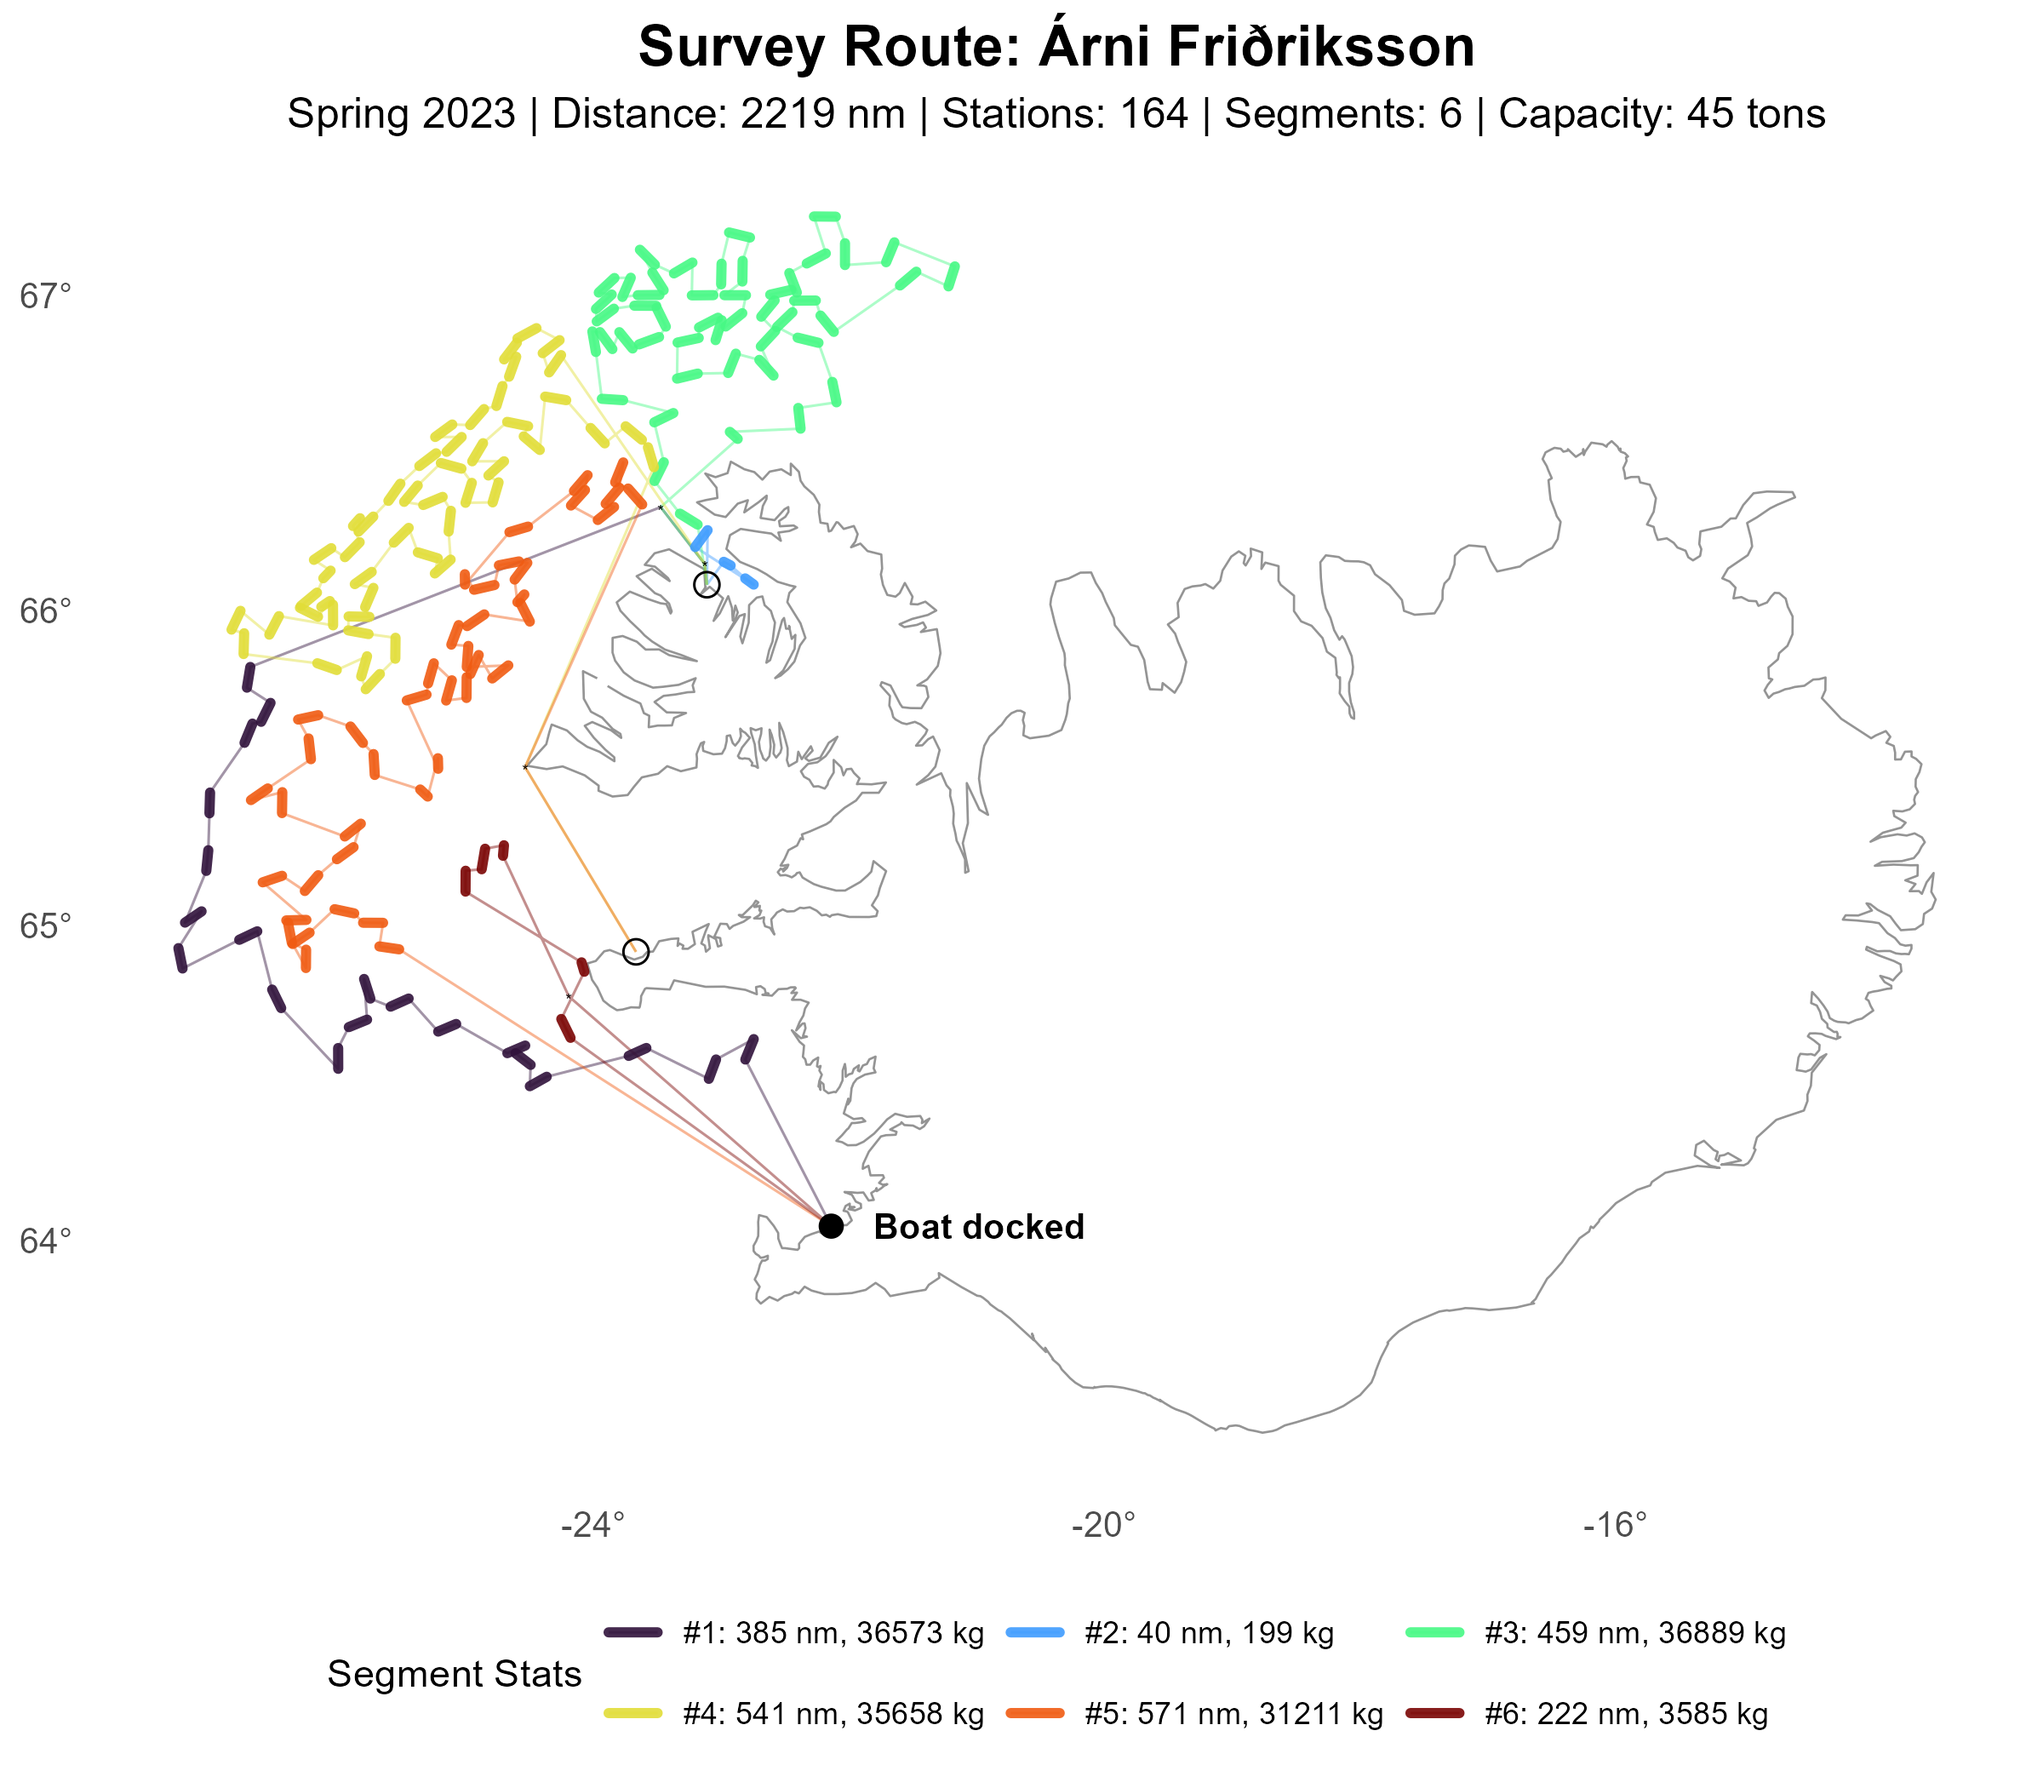
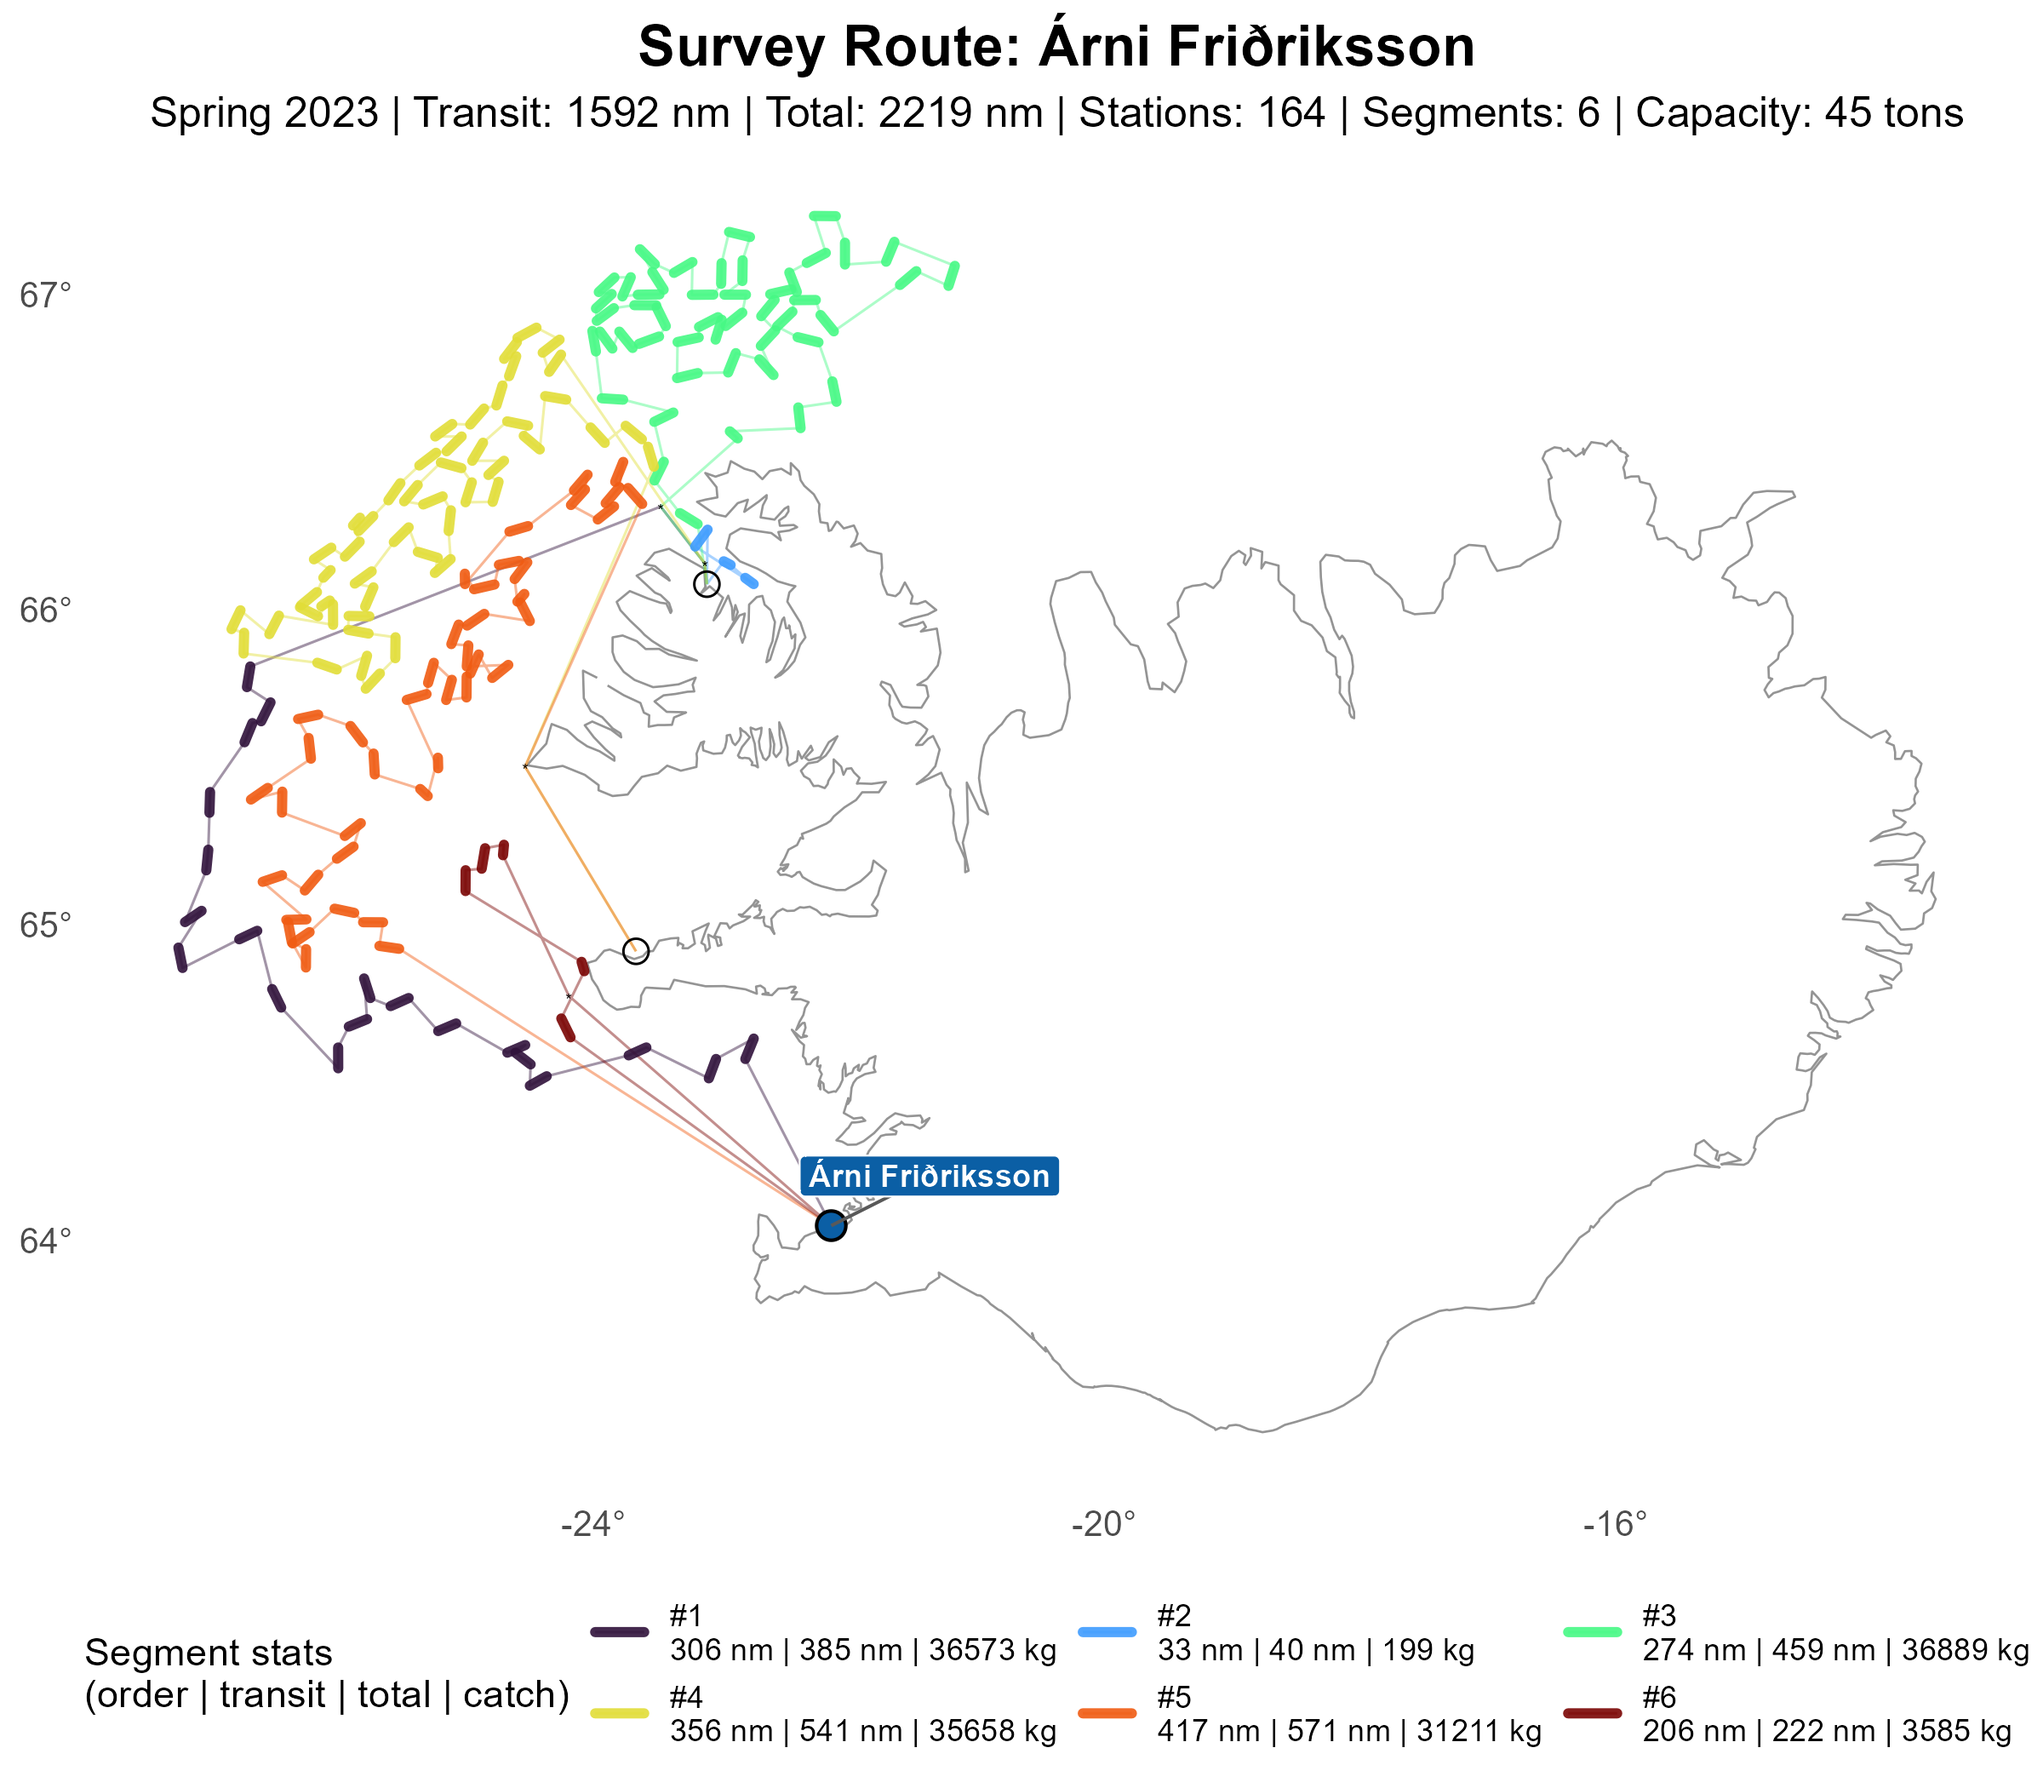
Update output filename for multi-vessel route plotting to `multivessel.png` in script and Makefile.

diff --git a/sol/survey/README.md b/sol/survey/README.md
@@ -4,6 +4,9 @@ This folder contains the exported historical survey routes:
 
 - `boat1.json` to `boat4.json`
 - `boat1.png` to `boat4.png`
+- `boat1.log` to `boat4.log`
+- `multivessel.png`
+- `multivessel.log`
 
 The original ordered survey input is:
 
@@ -11,7 +14,7 @@ The original ordered survey input is:
 
 The database used to resolve `boat_id`, `station_id`, and `port_id` is:
 
-- `dat/gsp_data.db`
+- `dat/gsp.db`
 
 The JSON files here are produced by:
 
@@ -22,7 +25,7 @@ make -C src survey
 That workflow:
 
 1. reads `dat/survey2023spring.dat`
-2. rebuilds the `survey` table from existing boats, stations, and ports already in `dat/gsp_data.db`
+2. rebuilds the `survey` table from existing boats, stations, and ports already in `dat/gsp.db`
 3. exports `boat*.json`
 
 To regenerate a PNG from one of the JSON files:
@@ -31,18 +34,26 @@ To regenerate a PNG from one of the JSON files:
 Rscript R/plot_single_vessel_route.R sol/survey/boat1.json
 ```
 
+That command also writes a sidecar summary log next to the PNG.
+
 Examples:
 
 ```bash
 Rscript R/plot_single_vessel_route.R sol/survey/boat2.json
 Rscript R/plot_single_vessel_route.R sol/survey/boat3.json
 Rscript R/plot_single_vessel_route.R sol/survey/boat4.json
-Rscript R/plot_multi_vessel_route.R "sol/survey/boat*.json" sol/survey/routes_combined.png dat/gsp.db
+Rscript R/plot_multi_vessel_route.R "sol/survey/boat*.json" sol/survey/multivessel.png dat/gsp.db
 ```
 
 The corresponding PNG is written next to the JSON file, for example:
 
 - `sol/survey/boat1.png`
+- `sol/survey/boat1.log`
+
+The combined survey plot writes:
+
+- `sol/survey/multivessel.png`
+- `sol/survey/multivessel.log`
 
 -----
 
@@ -57,54 +68,56 @@ The corresponding PNG is written next to the JSON file, for example:
 
 ### Boat 1: Bjarni Sæmundsson
 
-|   Segment |  Length | Stations |     Catch | Distance (nm) |
-|----------:|--------:|---------:|----------:|--------------:|
-|         1 |      38 |       36 |     24176 |        585.60 |
-|         2 |      20 |       18 |     10744 |        218.42 |
-|         3 |      44 |       42 |     15896 |        633.66 |
-|         4 |      17 |       15 |     13065 |        310.19 |
-| **Total** | **119** |  **111** | **63881** |   **1747.87** |
+|   Segment |  Length | Stations |     Catch | Transit (nm) | Total (nm) |
+|----------:|--------:|---------:|----------:|-------------:|-----------:|
+|         1 |      38 |       36 |     24176 |       444.57 |     585.60 |
+|         2 |      20 |       18 |     10744 |       147.05 |     218.42 |
+|         3 |      44 |       42 |     15896 |       480.17 |     633.66 |
+|         4 |      17 |       15 |     13065 |       257.82 |     310.19 |
+| **Total** | **119** |  **111** | **63881** |  **1329.60** | **1747.87** |
 
 ### Boat 2: Árni Friðriksson
 
-|   Segment |  Length | Stations |      Catch | Distance (nm) |
-|----------:|--------:|---------:|-----------:|--------------:|
-|         1 |      22 |       20 |      36573 |        384.70 |
-|         2 |       5 |        3 |        199 |         40.18 |
-|         3 |      49 |       47 |      36889 |        458.88 |
-|         4 |      50 |       48 |      35658 |        541.47 |
-|         5 |      43 |       41 |      31211 |        571.49 |
-|         6 |       7 |        5 |       3585 |        222.24 |
-| **Total** | **176** |  **164** | **144115** |   **2218.98** |
+|   Segment |  Length | Stations |      Catch | Transit (nm) | Total (nm) |
+|----------:|--------:|---------:|-----------:|-------------:|-----------:|
+|         1 |      22 |       20 |      36573 |       305.72 |     384.70 |
+|         2 |       5 |        3 |        199 |        32.71 |      40.18 |
+|         3 |      49 |       47 |      36889 |       273.85 |     458.88 |
+|         4 |      50 |       48 |      35658 |       356.36 |     541.47 |
+|         5 |      43 |       41 |      31211 |       416.85 |     571.49 |
+|         6 |       7 |        5 |       3585 |       206.38 |     222.24 |
+| **Total** | **176** |  **164** | **144115** |  **1591.86** | **2218.98** |
 
 ### Boat 3: Gullver
 
-|   Segment |  Length | Stations |     Catch | Distance (nm) |
-|----------:|--------:|---------:|----------:|--------------:|
-|         1 |      73 |       71 |     20040 |        833.70 |
-|         2 |      82 |       80 |     52715 |        982.03 |
-| **Total** | **155** |  **151** | **72755** |   **1815.73** |
+|   Segment |  Length | Stations |     Catch | Transit (nm) | Total (nm) |
+|----------:|--------:|---------:|----------:|-------------:|-----------:|
+|         1 |      73 |       71 |     20040 |       551.55 |     833.70 |
+|         2 |      82 |       80 |     52715 |       672.02 |     982.03 |
+| **Total** | **155** |  **151** | **72755** |  **1223.57** | **1815.73** |
 
 ### Boat 4: Breki
 
-|   Segment |  Length | Stations |      Catch | Distance (nm) |
-|----------:|--------:|---------:|-----------:|--------------:|
-|         1 |      89 |       87 |     147573 |       1005.21 |
-|         2 |      68 |       67 |      99741 |        803.28 |
-| **Total** | **157** |  **154** | **247314** |   **1808.48** |
+|   Segment |  Length | Stations |      Catch | Transit (nm) | Total (nm) |
+|----------:|--------:|---------:|-----------:|-------------:|-----------:|
+|         1 |      89 |       87 |     147573 |       661.38 |    1005.21 |
+|         2 |      68 |       67 |      99741 |       541.80 |     803.28 |
+| **Total** | **157** |  **154** | **247314** |  **1203.17** | **1808.48** |
 
 ### Fleet Summary
 
-|    ID     | Boat              | Segments |   Nodes | Stations | Total Catch | Distance (nm) | Feasible  |
-|:---------:|-------------------|---------:|--------:|---------:|------------:|--------------:|-----------|
-|     1     | Bjarni Sæmundsson |        4 |     120 |      111 |       63881 |       1747.87 | false[^1] |
-|     2     | Árni Friðriksson  |        6 |     177 |      164 |      144115 |       2218.98 | true      |
-|     3     | Gullver           |        2 |     156 |      151 |       72755 |       1815.73 | true      |
-|     4     | Breki             |        2 |     157 |      154 |      247314 |       1808.48 | true      |
-| **Total** |                   |   **14** | **610** |  **580** |  **528065** |   **7591.06** |           |
+This table is taken from `multivessel.log`.
 
-[^1]: Capacity violations: segment 1 and segment 3 exceed capacity `14000`.
+|    ID     | Boat              | Segments |   Nodes | Stations | Total Catch | Transit (nm) | Total (nm) | Feasible  |
+|:---------:|-------------------|---------:|--------:|---------:|------------:|-------------:|-----------:|-----------|
+|     1     | Bjarni Sæmundsson |        4 |     120 |      111 |       63881 |      1329.60 |    1747.87 | false[^1] |
+|     2     | Árni Friðriksson  |        6 |     177 |      164 |      144115 |      1591.86 |    2218.98 | true      |
+|     3     | Gullver           |        2 |     156 |      151 |       72755 |      1223.57 |    1815.73 | true      |
+|     4     | Breki             |        2 |     157 |      154 |      247314 |      1203.17 |    1808.48 | true      |
+| **Total** |                   |   **14** | **610** |  **580** |  **528065** |  **5348.20** | **7591.06** |           |
 
-![Combined Route](routes_combined.png)
+[^1]: The exported survey route is retained for plotting even though at least one boat exceeds capacity.
+
+![Combined Route](multivessel.png)
 
 -----
